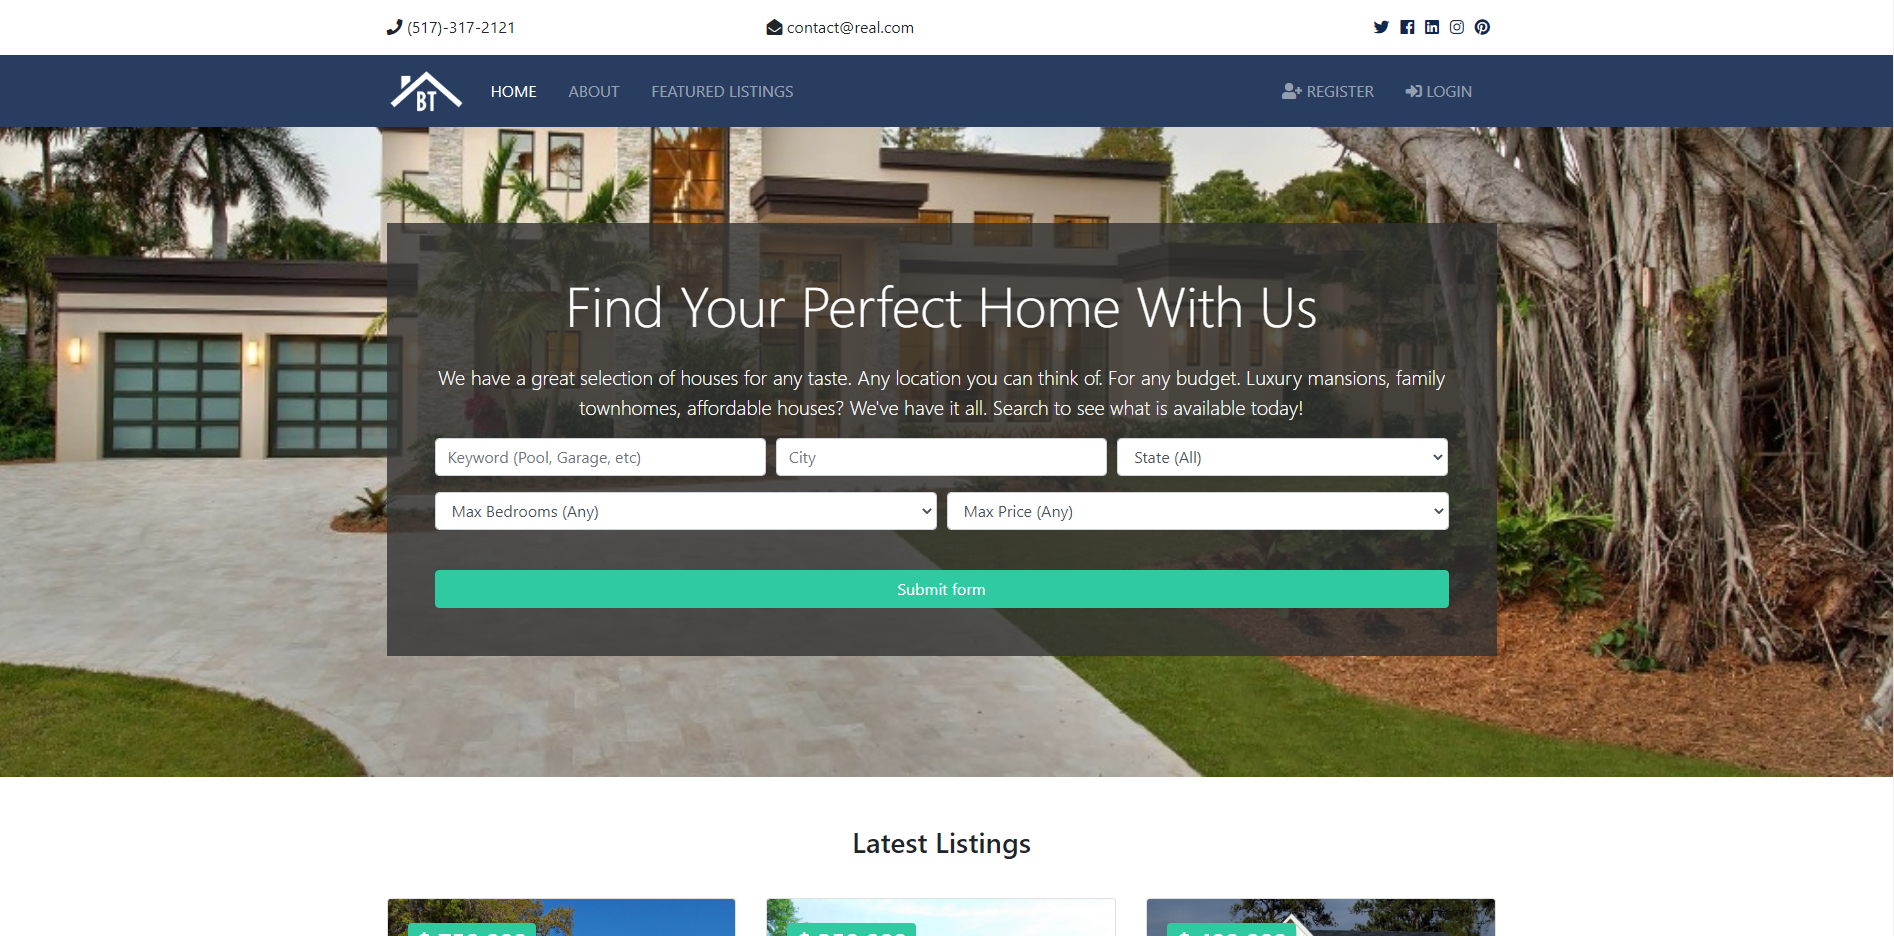
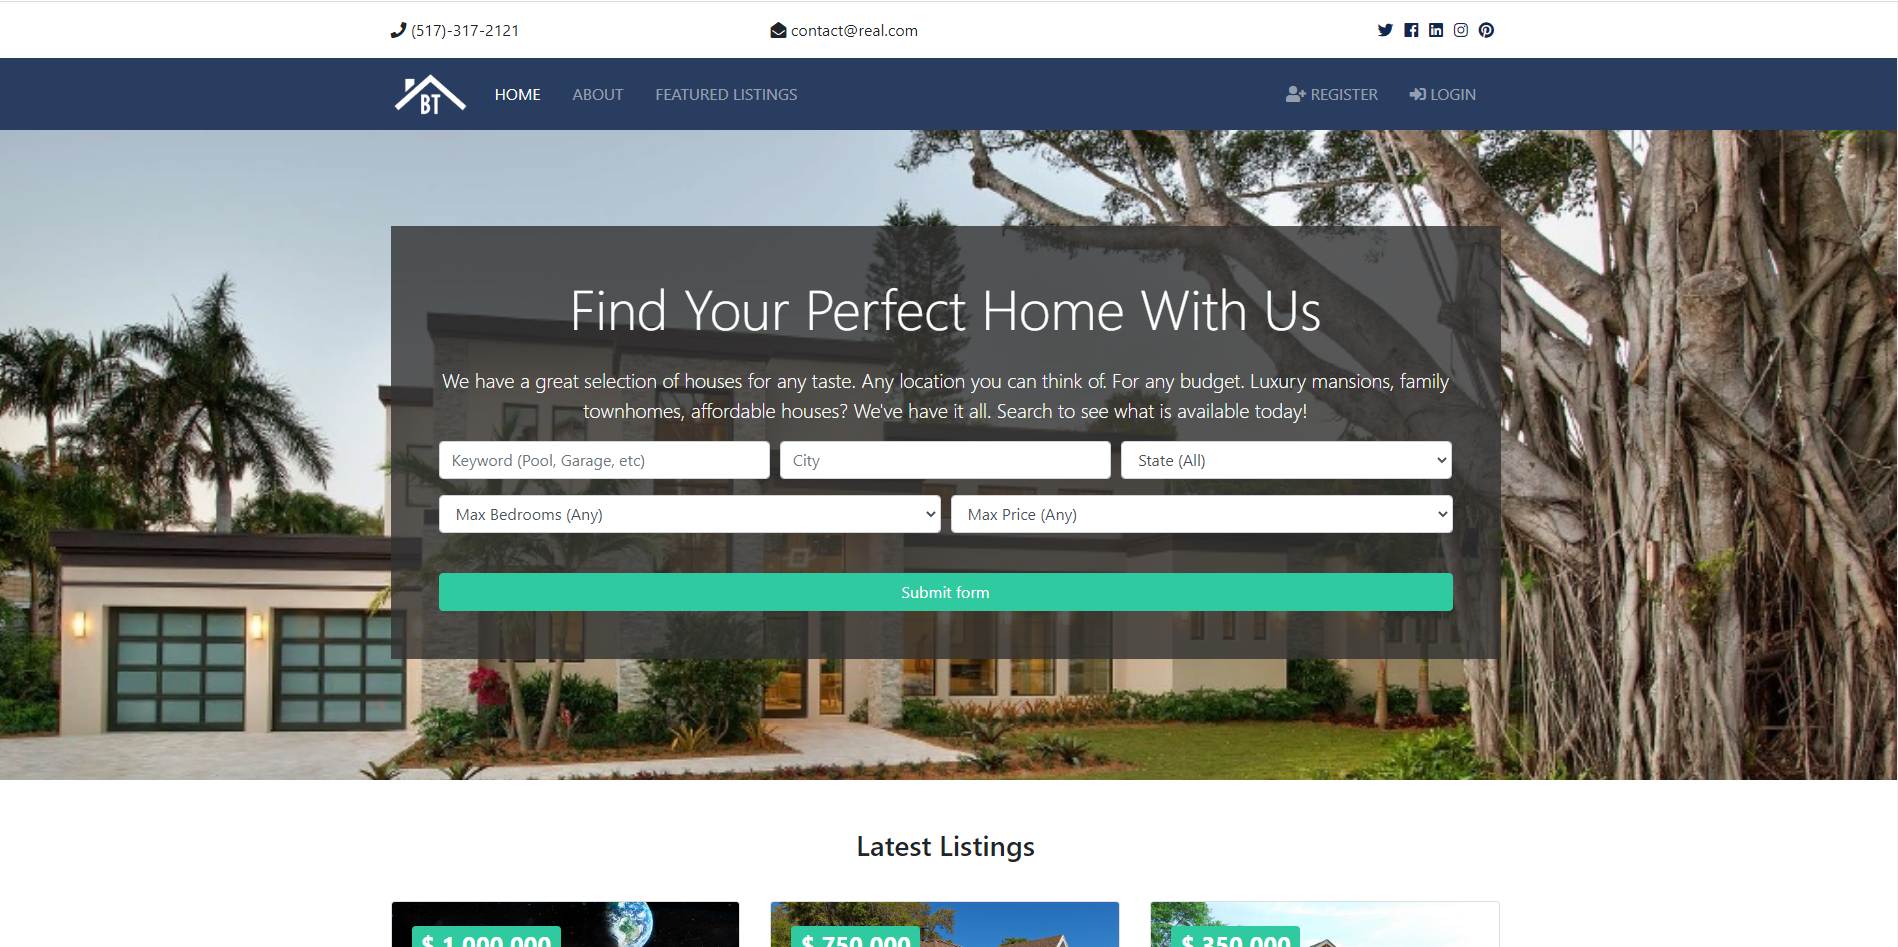
Update card-img responsiveness on phone screens

diff --git a/real_estate/real_estate/static/css/all.css b/real_estate/real_estate/static/css/all.css
@@ -3809,8 +3809,9 @@ readers do not read off random characters that represent icons */
   font-weight: 900; }
 
 .card-img-top {
-    width: 100%;
-    height: 15vw;
+vertical-align: middle;
+    max-height: 300px;
+    min-height: 200px;
     object-fit: cover;
 }
 

diff --git a/real_estate/real_estate/static/css/style.css b/real_estate/real_estate/static/css/style.css
@@ -15,7 +15,7 @@ img {
   margin-right: 0.4rem; }
 
 #showcase {
-  background: url(../img/showcase.jpg) no-repeat center bottom/cover;
+  background: url(../img/showcase.jpg) no-repeat center center/cover;
   position: relative;
   min-height: 650px;
   color: #fff;

diff --git a/real_estate/api/views.py b/real_estate/api/views.py
@@ -10,7 +10,7 @@ from .serializers import ListingSerializer, RealtorSerializer
 class RealtorsViewSet(viewsets.ModelViewSet):
     """
     API endpoint for realtors.
-    Note: POST, PUT, PATCH & DELETE available only for authenticated users.
+    Note: create/update/delete calls available only for authenticated users.
     """
     queryset = Realtor.objects.filter(is_published=True).order_by("-is_mvp", "hire_date")
     serializer_class = RealtorSerializer
@@ -20,7 +20,8 @@ class RealtorsViewSet(viewsets.ModelViewSet):
 class ListingViewSet(viewsets.ModelViewSet):
     """
     API endpoint for listings.
-    Note: POST, PUT, PATCH & DELETE available only for authenticated users.
+    Can be filtered by 'keywords', 'city', 'state', 'bedrooms', 'price'  (e.g /api/listings/?bedrooms=5&price=400000).
+    Note: create/update/delete calls available only for authenticated users.
     """
     serializer_class = ListingSerializer
     permission_classes = [permissions.IsAuthenticatedOrReadOnly]
